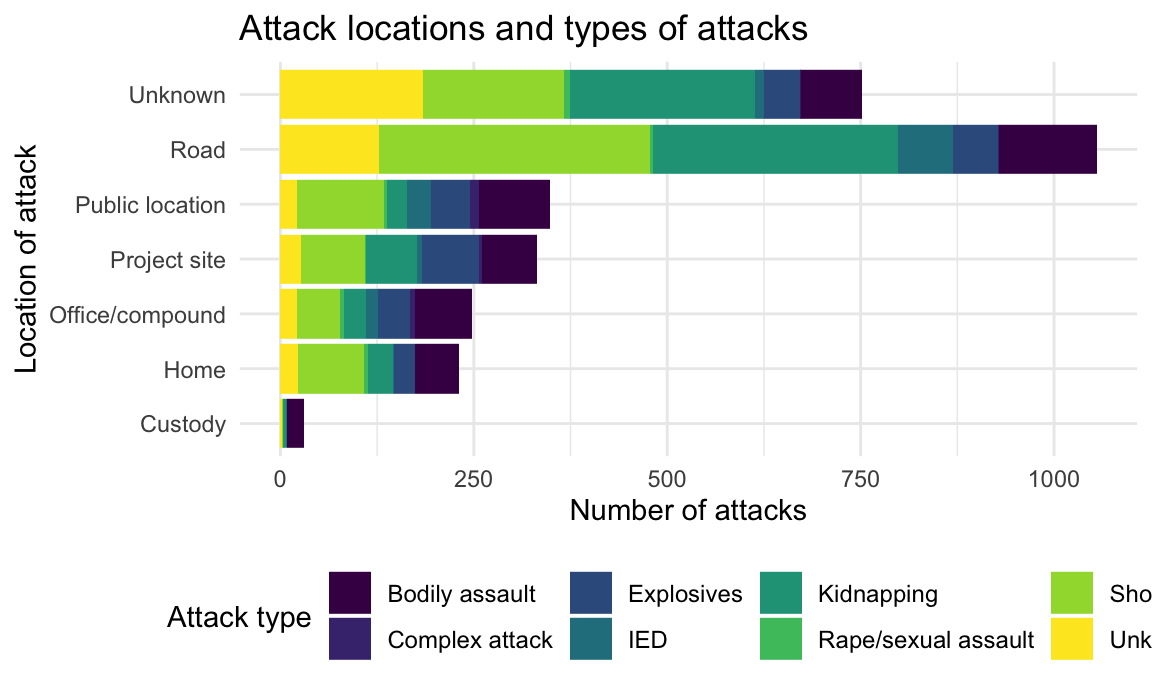
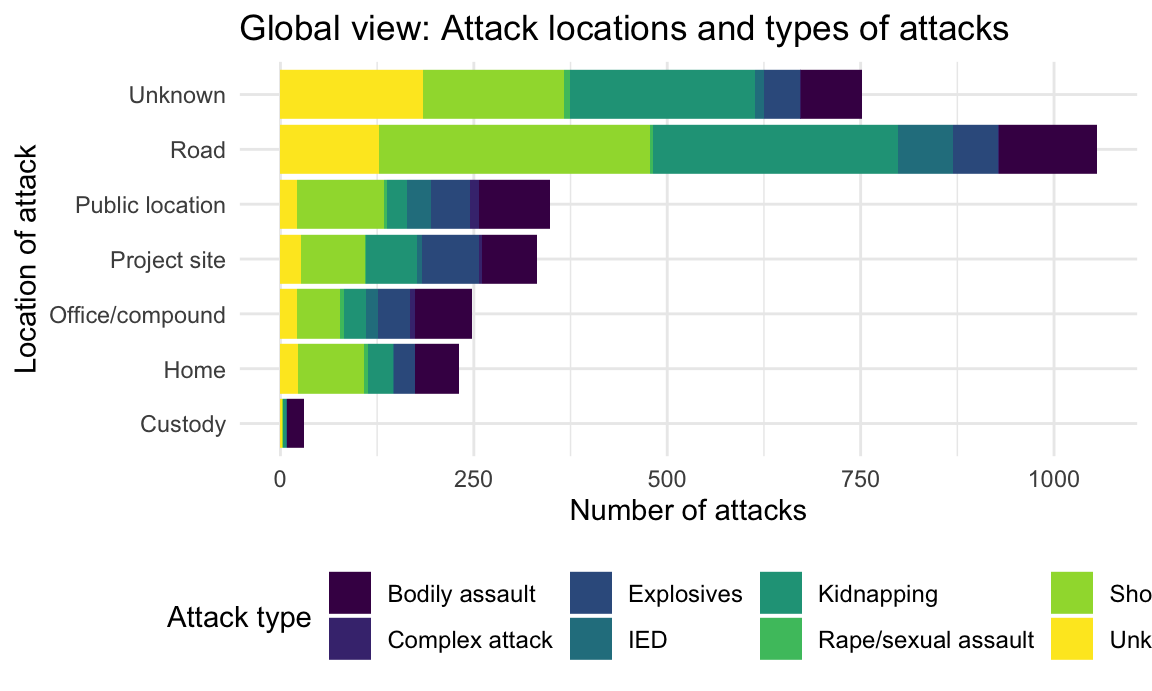
exploratory update

Changed region(s): [[0.1875, 0.0, 0.5938, 0.0608], [0.625, 0.0304, 0.875, 0.0608]]

diff --git a/exploratory_analyses.html b/exploratory_analyses.html
@@ -498,8 +498,8 @@ aidworker_df =
           type = &quot;scatter&quot;, mode = &quot;markers&quot;)
   
 layout(plot_1, title = &quot;Aid Worker Attacks Over Time&quot;, xaxis = list(title = &quot;Year&quot;), yaxis = list(title = &quot;Number of Attack Incidents&quot;))</code></pre>
-<div id="htmlwidget-f18e2c6571b577ca4654" style="width:90%;height:345.6px;" class="plotly html-widget"></div>
-<script type="application/json" data-for="htmlwidget-f18e2c6571b577ca4654">{"x":{"visdat":{"53267bb2a1a7":["function () ","plotlyVisDat"]},"cur_data":"53267bb2a1a7","attrs":{"53267bb2a1a7":{"x":{},"y":{},"text":{},"mode":"markers","alpha_stroke":1,"sizes":[10,100],"spans":[1,20],"type":"scatter"}},"layout":{"margin":{"b":40,"l":60,"t":25,"r":10},"title":"Aid Worker Attacks Over Time","xaxis":{"domain":[0,1],"automargin":true,"title":"Year"},"yaxis":{"domain":[0,1],"automargin":true,"title":"Number of Attack Incidents"},"hovermode":"closest","showlegend":false},"source":"A","config":{"showSendToCloud":false},"data":[{"x":[1997,1998,1999,2000,2001,2002,2003,2004,2005,2006,2007,2008,2009,2010,2011,2012,2013,2014,2015,2016,2017,2018,2019,2020],"y":[34,25,31,41,28,46,62,63,74,107,124,165,155,130,152,170,265,192,149,163,158,228,277,157],"text":["Total Victims: 73<br />International Staff: 29<br />National Staff: 44","Total Victims: 62<br />International Staff: 21<br />National Staff: 41","Total Victims: 66<br />International Staff: 24<br />National Staff: 42","Total Victims: 87<br />International Staff: 20<br />National Staff: 67","Total Victims: 86<br />International Staff: 26<br />National Staff: 60","Total Victims: 85<br />International Staff: 17<br />National Staff: 68","Total Victims: 142<br />International Staff: 25<br />National Staff: 117","Total Victims: 125<br />International Staff: 24<br />National Staff: 101","Total Victims: 172<br />International Staff: 14<br />National Staff: 158","Total Victims: 240<br />International Staff: 26<br />National Staff: 214","Total Victims: 221<br />International Staff: 35<br />National Staff: 186","Total Victims: 278<br />International Staff: 51<br />National Staff: 227","Total Victims: 295<br />International Staff: 74<br />National Staff: 221","Total Victims: 250<br />International Staff: 41<br />National Staff: 209","Total Victims: 311<br />International Staff: 29<br />National Staff: 282","Total Victims: 277<br />International Staff: 49<br />National Staff: 228","Total Victims: 475<br />International Staff: 60<br />National Staff: 415","Total Victims: 332<br />International Staff: 32<br />National Staff: 300","Total Victims: 289<br />International Staff: 29<br />National Staff: 260","Total Victims: 295<br />International Staff: 43<br />National Staff: 252","Total Victims: 313<br />International Staff: 28<br />National Staff: 285","Total Victims: 408<br />International Staff: 29<br />National Staff: 379","Total Victims: 483<br />International Staff: 27<br />National Staff: 456","Total Victims: 281<br />International Staff: 17<br />National Staff: 264"],"mode":"markers","type":"scatter","marker":{"color":"rgba(31,119,180,1)","line":{"color":"rgba(31,119,180,1)"}},"error_y":{"color":"rgba(31,119,180,1)"},"error_x":{"color":"rgba(31,119,180,1)"},"line":{"color":"rgba(31,119,180,1)"},"xaxis":"x","yaxis":"y","frame":null}],"highlight":{"on":"plotly_click","persistent":false,"dynamic":false,"selectize":false,"opacityDim":0.2,"selected":{"opacity":1},"debounce":0},"shinyEvents":["plotly_hover","plotly_click","plotly_selected","plotly_relayout","plotly_brushed","plotly_brushing","plotly_clickannotation","plotly_doubleclick","plotly_deselect","plotly_afterplot","plotly_sunburstclick"],"base_url":"https://plot.ly"},"evals":[],"jsHooks":[]}</script>
+<div id="htmlwidget-870e1dfa6ae59f1ed345" style="width:90%;height:345.6px;" class="plotly html-widget"></div>
+<script type="application/json" data-for="htmlwidget-870e1dfa6ae59f1ed345">{"x":{"visdat":{"55056269c7da":["function () ","plotlyVisDat"]},"cur_data":"55056269c7da","attrs":{"55056269c7da":{"x":{},"y":{},"text":{},"mode":"markers","alpha_stroke":1,"sizes":[10,100],"spans":[1,20],"type":"scatter"}},"layout":{"margin":{"b":40,"l":60,"t":25,"r":10},"title":"Aid Worker Attacks Over Time","xaxis":{"domain":[0,1],"automargin":true,"title":"Year"},"yaxis":{"domain":[0,1],"automargin":true,"title":"Number of Attack Incidents"},"hovermode":"closest","showlegend":false},"source":"A","config":{"showSendToCloud":false},"data":[{"x":[1997,1998,1999,2000,2001,2002,2003,2004,2005,2006,2007,2008,2009,2010,2011,2012,2013,2014,2015,2016,2017,2018,2019,2020],"y":[34,25,31,41,28,46,62,63,74,107,124,165,155,130,152,170,265,192,149,163,158,228,277,157],"text":["Total Victims: 73<br />International Staff: 29<br />National Staff: 44","Total Victims: 62<br />International Staff: 21<br />National Staff: 41","Total Victims: 66<br />International Staff: 24<br />National Staff: 42","Total Victims: 87<br />International Staff: 20<br />National Staff: 67","Total Victims: 86<br />International Staff: 26<br />National Staff: 60","Total Victims: 85<br />International Staff: 17<br />National Staff: 68","Total Victims: 142<br />International Staff: 25<br />National Staff: 117","Total Victims: 125<br />International Staff: 24<br />National Staff: 101","Total Victims: 172<br />International Staff: 14<br />National Staff: 158","Total Victims: 240<br />International Staff: 26<br />National Staff: 214","Total Victims: 221<br />International Staff: 35<br />National Staff: 186","Total Victims: 278<br />International Staff: 51<br />National Staff: 227","Total Victims: 295<br />International Staff: 74<br />National Staff: 221","Total Victims: 250<br />International Staff: 41<br />National Staff: 209","Total Victims: 311<br />International Staff: 29<br />National Staff: 282","Total Victims: 277<br />International Staff: 49<br />National Staff: 228","Total Victims: 475<br />International Staff: 60<br />National Staff: 415","Total Victims: 332<br />International Staff: 32<br />National Staff: 300","Total Victims: 289<br />International Staff: 29<br />National Staff: 260","Total Victims: 295<br />International Staff: 43<br />National Staff: 252","Total Victims: 313<br />International Staff: 28<br />National Staff: 285","Total Victims: 408<br />International Staff: 29<br />National Staff: 379","Total Victims: 483<br />International Staff: 27<br />National Staff: 456","Total Victims: 281<br />International Staff: 17<br />National Staff: 264"],"mode":"markers","type":"scatter","marker":{"color":"rgba(31,119,180,1)","line":{"color":"rgba(31,119,180,1)"}},"error_y":{"color":"rgba(31,119,180,1)"},"error_x":{"color":"rgba(31,119,180,1)"},"line":{"color":"rgba(31,119,180,1)"},"xaxis":"x","yaxis":"y","frame":null}],"highlight":{"on":"plotly_click","persistent":false,"dynamic":false,"selectize":false,"opacityDim":0.2,"selected":{"opacity":1},"debounce":0},"shinyEvents":["plotly_hover","plotly_click","plotly_selected","plotly_relayout","plotly_brushed","plotly_brushing","plotly_clickannotation","plotly_doubleclick","plotly_deselect","plotly_afterplot","plotly_sunburstclick"],"base_url":"https://plot.ly"},"evals":[],"jsHooks":[]}</script>
 <p>This rise in aid worker attacks is disproportionately affecting national staff. The next two plots show this increased violence toward national staff over time. Notably, the percentage of total victims who are national staff is rising, while the proportion of international staff victims has decreased.</p>
 <pre class="r"><code>aidworker_df %&gt;% 
   drop_na(year) %&gt;% 
@@ -574,8 +574,8 @@ layout(plot_2,
        title = &quot;Top 50 Most Dangerous Countries for Aid Workers&quot;,
        xaxis = NULL,
        yaxis = list(title = &quot;Total Victims&quot;))</code></pre>
-<div id="htmlwidget-492509742d495125e797" style="width:90%;height:345.6px;" class="plotly html-widget"></div>
-<script type="application/json" data-for="htmlwidget-492509742d495125e797">{"x":{"visdat":{"53264b14100":["function () ","plotlyVisDat"]},"cur_data":"53264b14100","attrs":{"53264b14100":{"x":{},"y":{},"text":{},"mode":"markers","alpha_stroke":1,"sizes":[10,100],"spans":[1,20],"type":"scatter"}},"layout":{"margin":{"b":100,"l":25,"t":50,"r":50,"pad":0},"title":"Top 50 Most Dangerous Countries for Aid Workers","yaxis":{"domain":[0,1],"automargin":true,"title":"Total Victims"},"xaxis":{"domain":[0,1],"automargin":true,"title":"country","type":"category","categoryorder":"array","categoryarray":["Azerbaijan","Congo","Eritrea","Madagascar","Mauritania","Thailand","Papua New Guinea","El Salvador","Guatemala","Turkey","Mozambique","Cote D'Ivoire","Guinea","Mexico","Senegal","Tanzania","Kosovo","Algeria","Myanmar","Colombia","Sierra Leone","Malawi","Rwanda","Jordan","Liberia","Burkina Faso","Bangladesh","Philippines","Tajikistan","Indonesia","Niger","Libyan Arab Jamahiriya","Cameroon","Haiti","Burundi","Chechnya","Chad","Angola","Ethiopia","Uganda","Occupied Palestinian Territories","Kenya","Sri Lanka","Mali","Nigeria","Yemen","Iraq","Central African Republic","Pakistan","DR Congo","Syrian Arab Republic","Sudan","Somalia","South Sudan","Afghanistan"]},"hovermode":"closest","showlegend":false},"source":"A","config":{"showSendToCloud":false},"data":[{"x":["Afghanistan","Algeria","Angola","Azerbaijan","Bangladesh","Burkina Faso","Burundi","Cameroon","Central African Republic","Chad","Chechnya","Colombia","Congo","Cote D'Ivoire","DR Congo","El Salvador","Eritrea","Ethiopia","Guatemala","Guinea","Haiti","Indonesia","Iraq","Jordan","Kenya","Kosovo","Liberia","Libyan Arab Jamahiriya","Madagascar","Malawi","Mali","Mauritania","Mexico","Mozambique","Myanmar","Niger","Nigeria","Occupied Palestinian Territories","Pakistan","Papua New Guinea","Philippines","Rwanda","Senegal","Sierra Leone","Somalia","South Sudan","Sri Lanka","Sudan","Syrian Arab Republic","Tajikistan","Tanzania","Thailand","Turkey","Uganda","Yemen"],"y":[1259,12,53,5,19,16,44,36,165,49,44,13,5,9,327,7,5,53,7,9,39,30,146,15,74,10,15,35,5,14,106,5,9,8,12,34,132,62,248,6,23,14,9,13,515,581,89,487,469,24,9,5,7,56,140],"text":["Total Victims: 1259<br />Rank: 1<br />International Staff: 131<br />National Staff: 1128","Total Victims: 12<br />Rank: 37<br />International Staff: 5<br />National Staff: 7","Total Victims: 53<br />Rank: 17<br />International Staff: 3<br />National Staff: 50","Total Victims: 5<br />Rank: 50<br />International Staff: 0<br />National Staff: 5","Total Victims: 19<br />Rank: 29<br />International Staff: 4<br />National Staff: 15","Total Victims: 16<br />Rank: 30<br />International Staff: 2<br />National Staff: 14","Total Victims: 44<br />Rank: 20<br />International Staff: 13<br />National Staff: 31","Total Victims: 36<br />Rank: 23<br />International Staff: 5<br />National Staff: 31","Total Victims: 165<br />Rank: 8<br />International Staff: 16<br />National Staff: 149","Total Victims: 49<br />Rank: 19<br />International Staff: 12<br />National Staff: 37","Total Victims: 44<br />Rank: 20<br />International Staff: 24<br />National Staff: 20","Total Victims: 13<br />Rank: 35<br />International Staff: 4<br />National Staff: 9","Total Victims: 5<br />Rank: 50<br />International Staff: 1<br />National Staff: 4","Total Victims: 9<br />Rank: 40<br />International Staff: 1<br />National Staff: 8","Total Victims: 327<br />Rank: 6<br />International Staff: 26<br />National Staff: 301","Total Victims: 7<br />Rank: 46<br />International Staff: 1<br />National Staff: 6","Total Victims: 5<br />Rank: 50<br />International Staff: 2<br />National Staff: 3","Total Victims: 53<br />Rank: 17<br />International Staff: 14<br />National Staff: 39","Total Victims: 7<br />Rank: 46<br />International Staff: 1<br />National Staff: 6","Total Victims: 9<br />Rank: 40<br />International Staff: 2<br />National Staff: 7","Total Victims: 39<br />Rank: 22<br />International Staff: 12<br />National Staff: 27","Total Victims: 30<br />Rank: 26<br />International Staff: 7<br />National Staff: 23","Total Victims: 146<br />Rank: 9<br />International Staff: 34<br />National Staff: 112","Total Victims: 15<br />Rank: 31<br />International Staff: 2<br />National Staff: 13","Total Victims: 74<br />Rank: 14<br />International Staff: 23<br />National Staff: 51","Total Victims: 10<br />Rank: 39<br />International Staff: 1<br />National Staff: 9","Total Victims: 15<br />Rank: 31<br />International Staff: 8<br />National Staff: 7","Total Victims: 35<br />Rank: 24<br />International Staff: 23<br />National Staff: 12","Total Victims: 5<br />Rank: 50<br />International Staff: 1<br />National Staff: 4","Total Victims: 14<br />Rank: 33<br />International Staff: 0<br />National Staff: 14","Total Victims: 106<br />Rank: 12<br />International Staff: 17<br />National Staff: 89","Total Victims: 5<br />Rank: 50<br />International Staff: 4<br />National Staff: 1","Total Victims: 9<br />Rank: 40<br />International Staff: 0<br />National Staff: 9","Total Victims: 8<br />Rank: 45<br />International Staff: 0<br />National Staff: 8","Total Victims: 12<br />Rank: 37<br />International Staff: 0<br />National Staff: 12","Total Victims: 34<br />Rank: 25<br />International Staff: 11<br />National Staff: 23","Total Victims: 132<br />Rank: 11<br />International Staff: 5<br />National Staff: 127","Total Victims: 62<br />Rank: 15<br />International Staff: 3<br />National Staff: 59","Total Victims: 248<br />Rank: 7<br />International Staff: 21<br />National Staff: 227","Total Victims: 6<br />Rank: 49<br />International Staff: 1<br />National Staff: 5","Total Victims: 23<br />Rank: 28<br />International Staff: 3<br />National Staff: 20","Total Victims: 14<br />Rank: 33<br />International Staff: 5<br />National Staff: 9","Total Victims: 9<br />Rank: 40<br />International Staff: 2<br />National Staff: 7","Total Victims: 13<br />Rank: 35<br />International Staff: 3<br />National Staff: 10","Total Victims: 515<br />Rank: 3<br />International Staff: 90<br />National Staff: 425","Total Victims: 581<br />Rank: 2<br />International Staff: 65<br />National Staff: 516","Total Victims: 89<br />Rank: 13<br />International Staff: 2<br />National Staff: 87","Total Victims: 487<br />Rank: 4<br />International Staff: 54<br />National Staff: 433","Total Victims: 469<br />Rank: 5<br />International Staff: 29<br />National Staff: 440","Total Victims: 24<br />Rank: 27<br />International Staff: 11<br />National Staff: 13","Total Victims: 9<br />Rank: 40<br />International Staff: 2<br />National Staff: 7","Total Victims: 5<br />Rank: 50<br />International Staff: 0<br />National Staff: 5","Total Victims: 7<br />Rank: 46<br />International Staff: 1<br />National Staff: 6","Total Victims: 56<br />Rank: 16<br />International Staff: 6<br />National Staff: 50","Total Victims: 140<br />Rank: 10<br />International Staff: 35<br />National Staff: 105"],"mode":"markers","type":"scatter","marker":{"color":"rgba(31,119,180,1)","line":{"color":"rgba(31,119,180,1)"}},"error_y":{"color":"rgba(31,119,180,1)"},"error_x":{"color":"rgba(31,119,180,1)"},"line":{"color":"rgba(31,119,180,1)"},"xaxis":"x","yaxis":"y","frame":null}],"highlight":{"on":"plotly_click","persistent":false,"dynamic":false,"selectize":false,"opacityDim":0.2,"selected":{"opacity":1},"debounce":0},"shinyEvents":["plotly_hover","plotly_click","plotly_selected","plotly_relayout","plotly_brushed","plotly_brushing","plotly_clickannotation","plotly_doubleclick","plotly_deselect","plotly_afterplot","plotly_sunburstclick"],"base_url":"https://plot.ly"},"evals":[],"jsHooks":[]}</script>
+<div id="htmlwidget-479c1dae05855ec8846e" style="width:90%;height:345.6px;" class="plotly html-widget"></div>
+<script type="application/json" data-for="htmlwidget-479c1dae05855ec8846e">{"x":{"visdat":{"550578fe2341":["function () ","plotlyVisDat"]},"cur_data":"550578fe2341","attrs":{"550578fe2341":{"x":{},"y":{},"text":{},"mode":"markers","alpha_stroke":1,"sizes":[10,100],"spans":[1,20],"type":"scatter"}},"layout":{"margin":{"b":100,"l":25,"t":50,"r":50,"pad":0},"title":"Top 50 Most Dangerous Countries for Aid Workers","yaxis":{"domain":[0,1],"automargin":true,"title":"Total Victims"},"xaxis":{"domain":[0,1],"automargin":true,"title":"country","type":"category","categoryorder":"array","categoryarray":["Azerbaijan","Congo","Eritrea","Madagascar","Mauritania","Thailand","Papua New Guinea","El Salvador","Guatemala","Turkey","Mozambique","Cote D'Ivoire","Guinea","Mexico","Senegal","Tanzania","Kosovo","Algeria","Myanmar","Colombia","Sierra Leone","Malawi","Rwanda","Jordan","Liberia","Burkina Faso","Bangladesh","Philippines","Tajikistan","Indonesia","Niger","Libyan Arab Jamahiriya","Cameroon","Haiti","Burundi","Chechnya","Chad","Angola","Ethiopia","Uganda","Occupied Palestinian Territories","Kenya","Sri Lanka","Mali","Nigeria","Yemen","Iraq","Central African Republic","Pakistan","DR Congo","Syrian Arab Republic","Sudan","Somalia","South Sudan","Afghanistan"]},"hovermode":"closest","showlegend":false},"source":"A","config":{"showSendToCloud":false},"data":[{"x":["Afghanistan","Algeria","Angola","Azerbaijan","Bangladesh","Burkina Faso","Burundi","Cameroon","Central African Republic","Chad","Chechnya","Colombia","Congo","Cote D'Ivoire","DR Congo","El Salvador","Eritrea","Ethiopia","Guatemala","Guinea","Haiti","Indonesia","Iraq","Jordan","Kenya","Kosovo","Liberia","Libyan Arab Jamahiriya","Madagascar","Malawi","Mali","Mauritania","Mexico","Mozambique","Myanmar","Niger","Nigeria","Occupied Palestinian Territories","Pakistan","Papua New Guinea","Philippines","Rwanda","Senegal","Sierra Leone","Somalia","South Sudan","Sri Lanka","Sudan","Syrian Arab Republic","Tajikistan","Tanzania","Thailand","Turkey","Uganda","Yemen"],"y":[1259,12,53,5,19,16,44,36,165,49,44,13,5,9,327,7,5,53,7,9,39,30,146,15,74,10,15,35,5,14,106,5,9,8,12,34,132,62,248,6,23,14,9,13,515,581,89,487,469,24,9,5,7,56,140],"text":["Total Victims: 1259<br />Rank: 1<br />International Staff: 131<br />National Staff: 1128","Total Victims: 12<br />Rank: 37<br />International Staff: 5<br />National Staff: 7","Total Victims: 53<br />Rank: 17<br />International Staff: 3<br />National Staff: 50","Total Victims: 5<br />Rank: 50<br />International Staff: 0<br />National Staff: 5","Total Victims: 19<br />Rank: 29<br />International Staff: 4<br />National Staff: 15","Total Victims: 16<br />Rank: 30<br />International Staff: 2<br />National Staff: 14","Total Victims: 44<br />Rank: 20<br />International Staff: 13<br />National Staff: 31","Total Victims: 36<br />Rank: 23<br />International Staff: 5<br />National Staff: 31","Total Victims: 165<br />Rank: 8<br />International Staff: 16<br />National Staff: 149","Total Victims: 49<br />Rank: 19<br />International Staff: 12<br />National Staff: 37","Total Victims: 44<br />Rank: 20<br />International Staff: 24<br />National Staff: 20","Total Victims: 13<br />Rank: 35<br />International Staff: 4<br />National Staff: 9","Total Victims: 5<br />Rank: 50<br />International Staff: 1<br />National Staff: 4","Total Victims: 9<br />Rank: 40<br />International Staff: 1<br />National Staff: 8","Total Victims: 327<br />Rank: 6<br />International Staff: 26<br />National Staff: 301","Total Victims: 7<br />Rank: 46<br />International Staff: 1<br />National Staff: 6","Total Victims: 5<br />Rank: 50<br />International Staff: 2<br />National Staff: 3","Total Victims: 53<br />Rank: 17<br />International Staff: 14<br />National Staff: 39","Total Victims: 7<br />Rank: 46<br />International Staff: 1<br />National Staff: 6","Total Victims: 9<br />Rank: 40<br />International Staff: 2<br />National Staff: 7","Total Victims: 39<br />Rank: 22<br />International Staff: 12<br />National Staff: 27","Total Victims: 30<br />Rank: 26<br />International Staff: 7<br />National Staff: 23","Total Victims: 146<br />Rank: 9<br />International Staff: 34<br />National Staff: 112","Total Victims: 15<br />Rank: 31<br />International Staff: 2<br />National Staff: 13","Total Victims: 74<br />Rank: 14<br />International Staff: 23<br />National Staff: 51","Total Victims: 10<br />Rank: 39<br />International Staff: 1<br />National Staff: 9","Total Victims: 15<br />Rank: 31<br />International Staff: 8<br />National Staff: 7","Total Victims: 35<br />Rank: 24<br />International Staff: 23<br />National Staff: 12","Total Victims: 5<br />Rank: 50<br />International Staff: 1<br />National Staff: 4","Total Victims: 14<br />Rank: 33<br />International Staff: 0<br />National Staff: 14","Total Victims: 106<br />Rank: 12<br />International Staff: 17<br />National Staff: 89","Total Victims: 5<br />Rank: 50<br />International Staff: 4<br />National Staff: 1","Total Victims: 9<br />Rank: 40<br />International Staff: 0<br />National Staff: 9","Total Victims: 8<br />Rank: 45<br />International Staff: 0<br />National Staff: 8","Total Victims: 12<br />Rank: 37<br />International Staff: 0<br />National Staff: 12","Total Victims: 34<br />Rank: 25<br />International Staff: 11<br />National Staff: 23","Total Victims: 132<br />Rank: 11<br />International Staff: 5<br />National Staff: 127","Total Victims: 62<br />Rank: 15<br />International Staff: 3<br />National Staff: 59","Total Victims: 248<br />Rank: 7<br />International Staff: 21<br />National Staff: 227","Total Victims: 6<br />Rank: 49<br />International Staff: 1<br />National Staff: 5","Total Victims: 23<br />Rank: 28<br />International Staff: 3<br />National Staff: 20","Total Victims: 14<br />Rank: 33<br />International Staff: 5<br />National Staff: 9","Total Victims: 9<br />Rank: 40<br />International Staff: 2<br />National Staff: 7","Total Victims: 13<br />Rank: 35<br />International Staff: 3<br />National Staff: 10","Total Victims: 515<br />Rank: 3<br />International Staff: 90<br />National Staff: 425","Total Victims: 581<br />Rank: 2<br />International Staff: 65<br />National Staff: 516","Total Victims: 89<br />Rank: 13<br />International Staff: 2<br />National Staff: 87","Total Victims: 487<br />Rank: 4<br />International Staff: 54<br />National Staff: 433","Total Victims: 469<br />Rank: 5<br />International Staff: 29<br />National Staff: 440","Total Victims: 24<br />Rank: 27<br />International Staff: 11<br />National Staff: 13","Total Victims: 9<br />Rank: 40<br />International Staff: 2<br />National Staff: 7","Total Victims: 5<br />Rank: 50<br />International Staff: 0<br />National Staff: 5","Total Victims: 7<br />Rank: 46<br />International Staff: 1<br />National Staff: 6","Total Victims: 56<br />Rank: 16<br />International Staff: 6<br />National Staff: 50","Total Victims: 140<br />Rank: 10<br />International Staff: 35<br />National Staff: 105"],"mode":"markers","type":"scatter","marker":{"color":"rgba(31,119,180,1)","line":{"color":"rgba(31,119,180,1)"}},"error_y":{"color":"rgba(31,119,180,1)"},"error_x":{"color":"rgba(31,119,180,1)"},"line":{"color":"rgba(31,119,180,1)"},"xaxis":"x","yaxis":"y","frame":null}],"highlight":{"on":"plotly_click","persistent":false,"dynamic":false,"selectize":false,"opacityDim":0.2,"selected":{"opacity":1},"debounce":0},"shinyEvents":["plotly_hover","plotly_click","plotly_selected","plotly_relayout","plotly_brushed","plotly_brushing","plotly_clickannotation","plotly_doubleclick","plotly_deselect","plotly_afterplot","plotly_sunburstclick"],"base_url":"https://plot.ly"},"evals":[],"jsHooks":[]}</script>
 <p>The next two plots look at the top 10 countries for national staff victims and international staff victims: demonstrating the proportion of victims who were wounded, kidnapped, and killed.</p>
 <pre class="r"><code>danger_countries_df = 
   aidworker_df %&gt;%
@@ -833,7 +833,7 @@ aidworker_df %&gt;%
 </div>
 <div id="attack-contexts" class="section level2">
 <h2>Attack Contexts</h2>
-<p>As we see below, most aidworker attacks occur during transit, on roadways. The large portion of ‘unknown’ attack locations and attack types is indicative of challenges in collecting comprehensive data during humanitarian emergencies.</p>
+<p>As we see below, most aidworker attacks globally occur during transit, on roadways. The large portion of ‘unknown’ attack locations and attack types is indicative of challenges in collecting comprehensive data during humanitarian emergencies.</p>
 <pre class="r"><code>aidworker_df %&gt;%
   group_by(location, attack_abr) %&gt;% 
   summarize(attacks = n_distinct(id)) %&gt;% 
@@ -842,7 +842,7 @@ aidworker_df %&gt;%
   ggplot(aes(x = location, y = attacks, fill = attack_abr)) + 
   geom_bar(stat=&quot;identity&quot;) + 
   coord_flip() + 
-  labs(title = &quot;Attack locations and types of attacks&quot;,
+  labs(title = &quot;Global view: Attack locations and types of attacks&quot;,
        x = &quot;Location of attack&quot;,
        y = &quot;Number of attacks&quot;) + 
   viridis::scale_fill_viridis(
